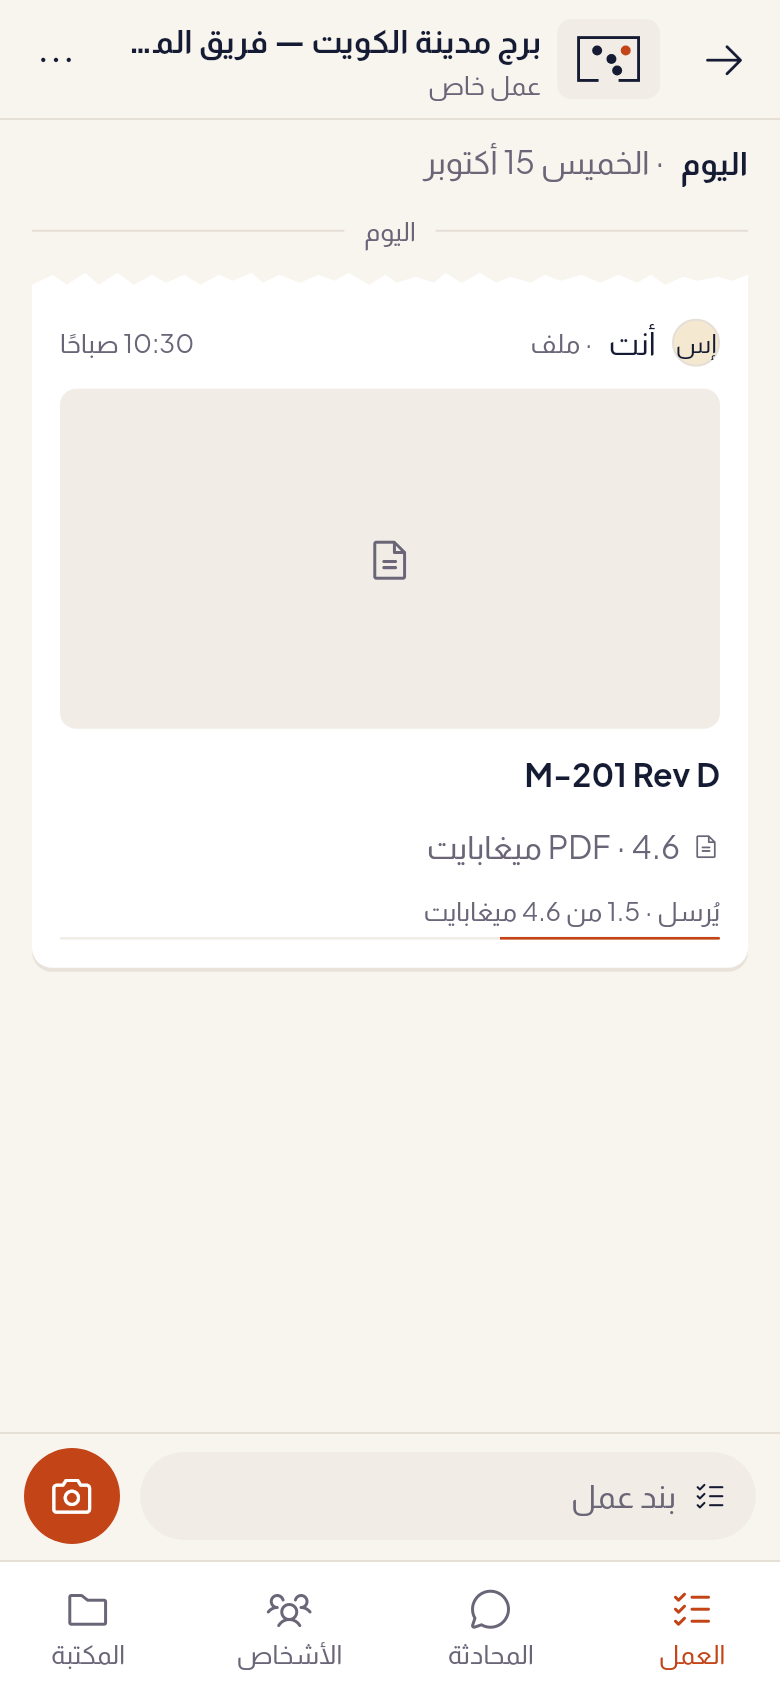
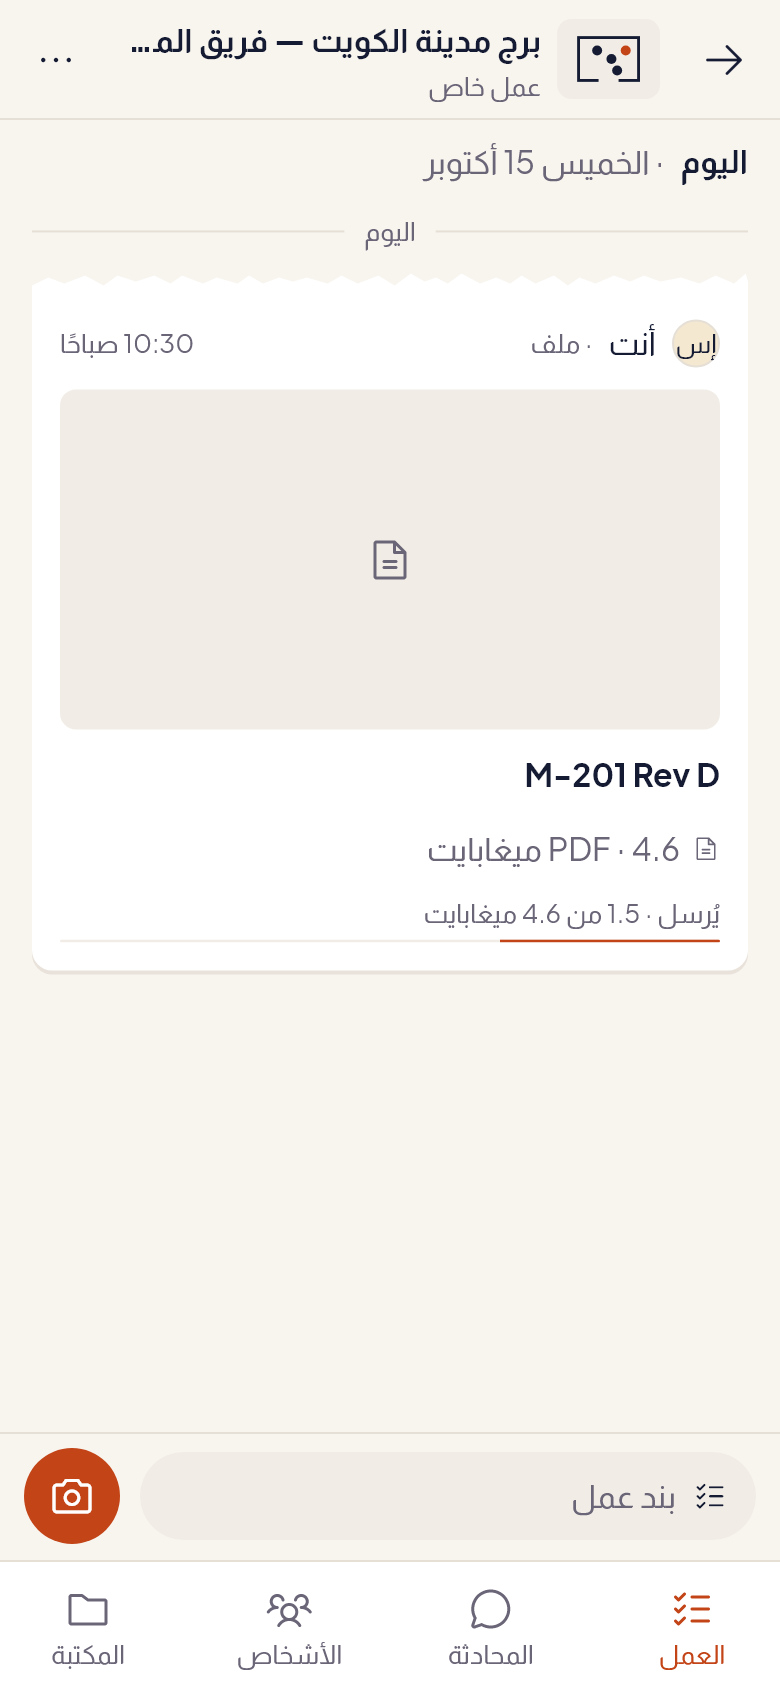
Screenshots: W-file takes F71's single choice and the version picker; F73 has a fixed post id so its torn edge is the same every run

diff --git a/test_screens/review80_test.dart b/test_screens/review80_test.dart
@@ -82,6 +82,7 @@ Future<TestApp> _space(
   Map<String, Object> stored = const {},
   DateTime? now,
   Object? open,
+  String? postId,
 }) async {
   final s = DaybookSamples(lang);
   final daybook = FakeDaybookRepository()
@@ -112,6 +113,8 @@ Future<TestApp> _space(
         (context, {required initial}) async =>
             const TimeOfDay(hour: 14, minute: 0),
       ),
+      // A new post's torn edge follows its id: the same on every run.
+      if (postId != null) newPostIdProvider.overrideWithValue(() => postId),
     ],
   );
   _router(tester).push('/spaces/${DaybookSamples.space}', extra: open);
@@ -362,7 +365,12 @@ void main() {
     });
 
     testWidgets('F73 a large file sending [$lang]', (tester) async {
-      final app = await _space(tester, lang, files: [_m201]);
+      final app = await _space(
+        tester,
+        lang,
+        files: [_m201],
+        postId: 'post-review80-sending',
+      );
       app.library.holdUpload = Completer<void>();
       await _write(tester, lang, l10n.daybookKindDocument, 'M-201 Rev D');
       await _tap(tester, _key('file-from-phone'));

diff --git a/test_screens/slice2_test.dart b/test_screens/slice2_test.dart
@@ -676,7 +676,9 @@ void main() {
         before: (tester) async {
           await _writeKind(tester, l10n, DaybookKind.file);
           await _tap(tester, find.byKey(const Key('file-from-phone')));
-          await _tap(tester, find.byKey(const Key('replaces-lib-m201-c')));
+          // F71: one single choice, then the file it replaces.
+          await _tap(tester, find.byKey(const Key('replaces-version')));
+          await _tap(tester, find.byKey(const Key('version-lib-m201-c')));
           await _tap(tester, find.byKey(const Key('replaces-done')));
           await _type(
             tester,
